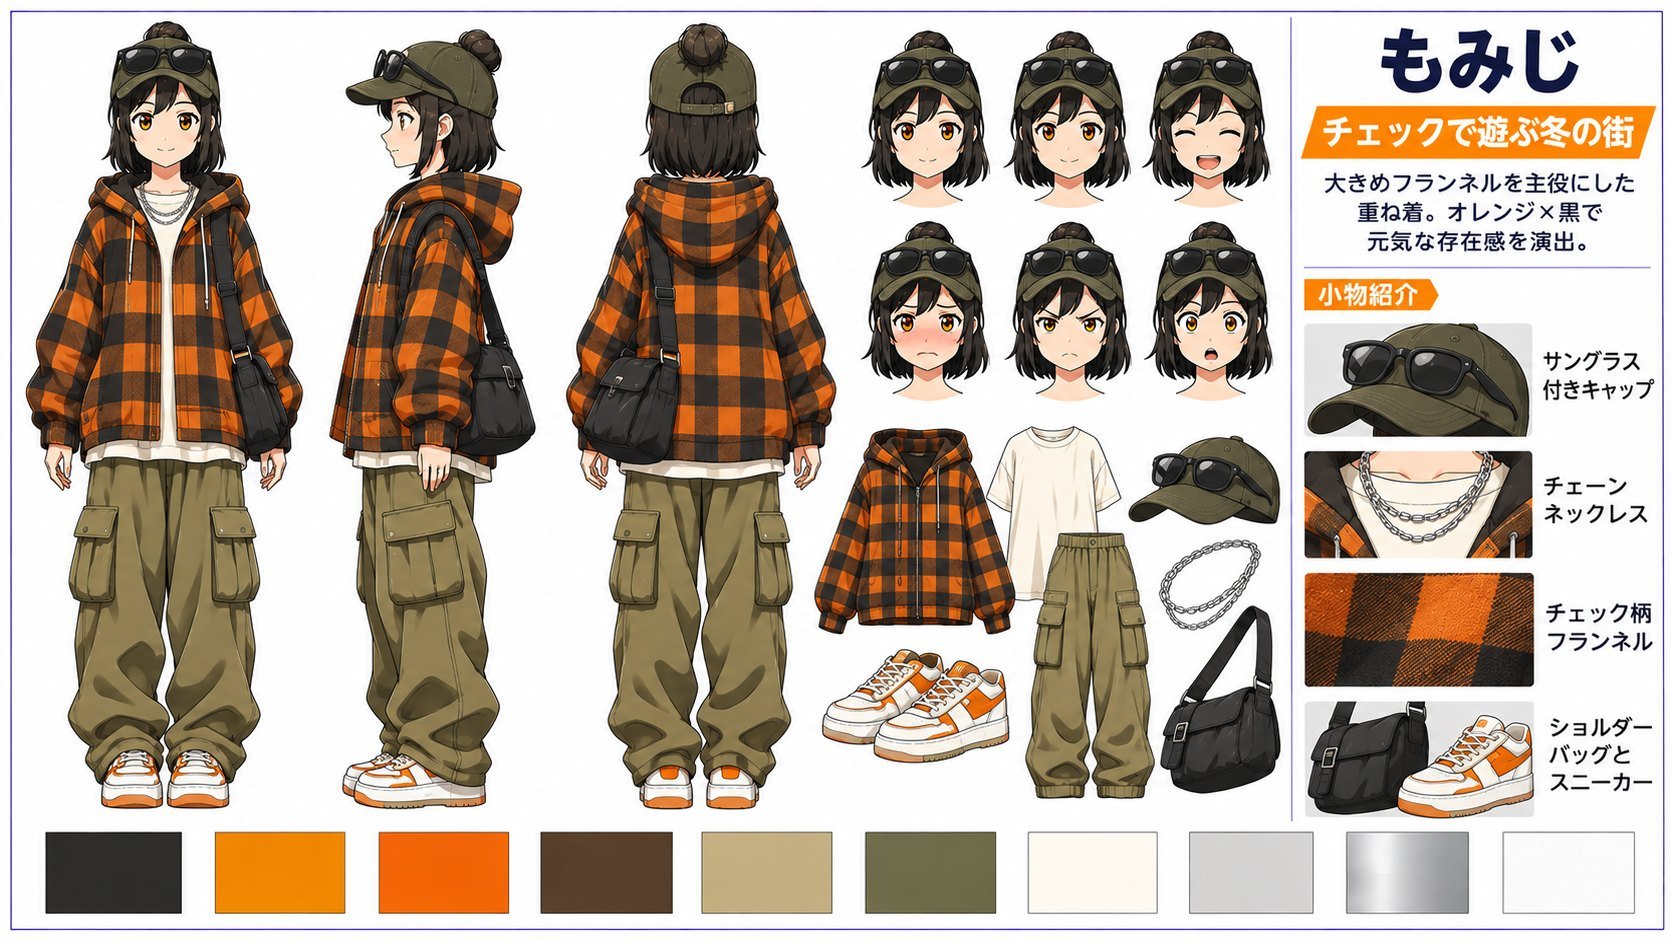
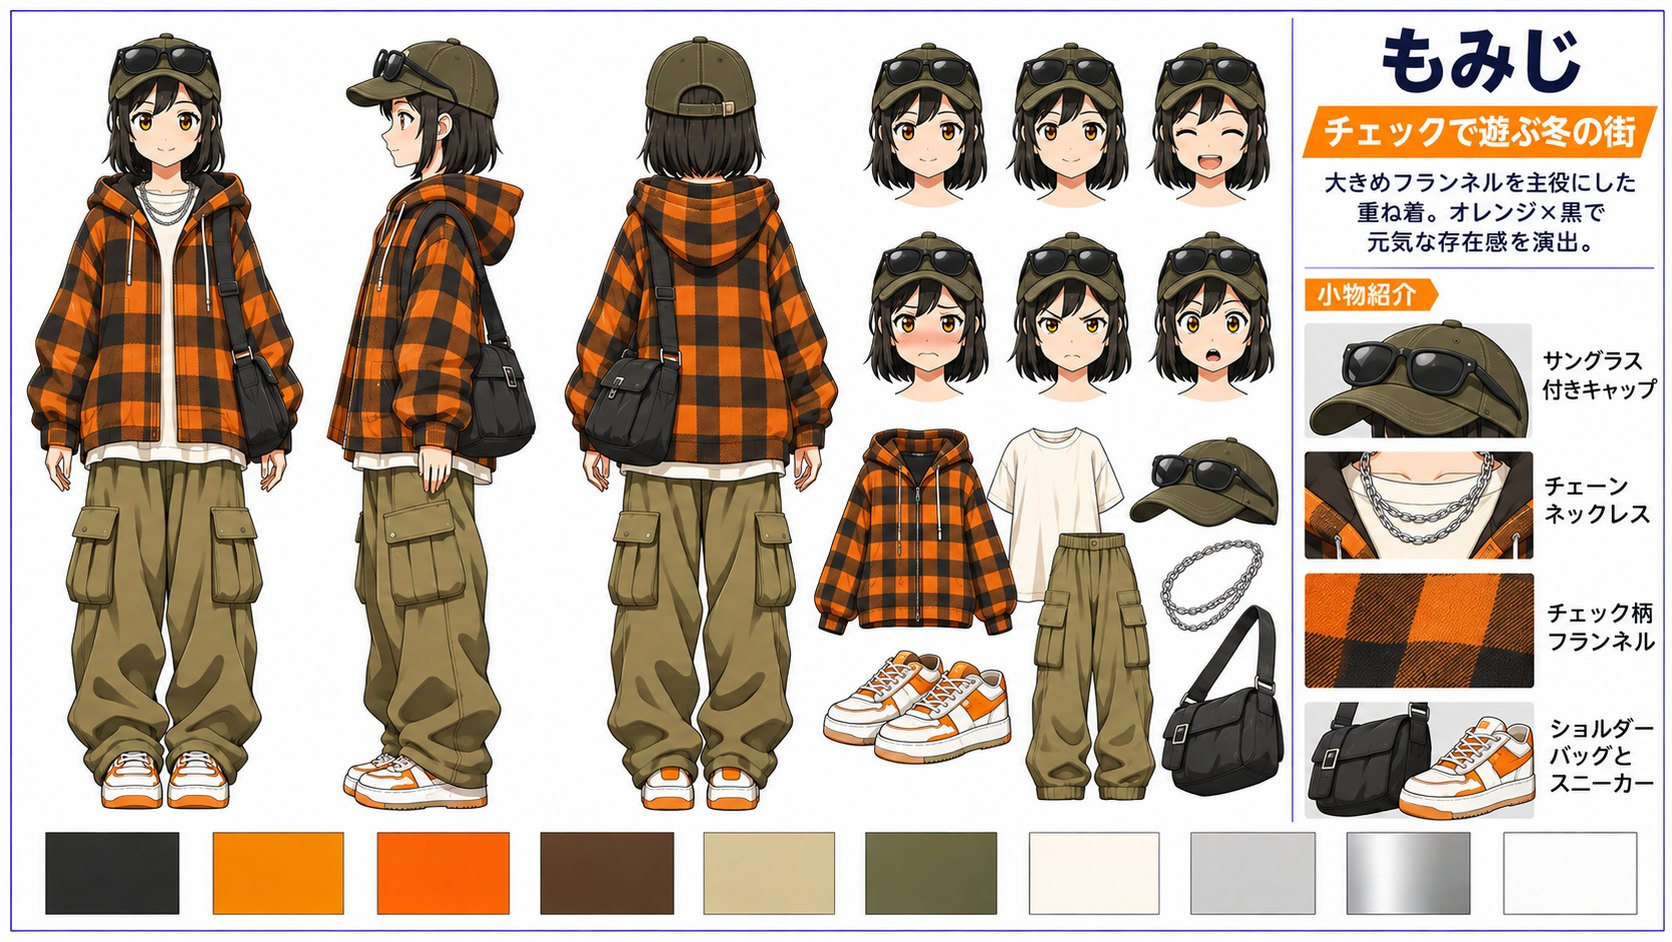
冬のクローゼット: もみじの帽子からお団子が出ていた4枚を直す
Claude-Session: https://claude.ai/code/session_01T7gT4qmE9osHHDbzMXBfQo

diff --git a/closet/index.html b/closet/index.html
@@ -119,7 +119,7 @@ function build(){
   list.forEach((c,i)=>{
     const b=document.createElement('button');b.type='button';b.className='card';b.style.setProperty('--c',COL[c.who]);
     b.setAttribute('aria-label',WHO[c.who]+'「'+c.title+'」');
-    b.innerHTML=`<img src="img/${c.id}.jpg" alt="" loading="${i<4?'eager':'lazy'}" draggable="false"><span class="refl" aria-hidden="true"><img src="img/${c.id}_s.jpg" alt="" loading="lazy"></span>`;
+    b.innerHTML=`<img src="img/${c.id}.jpg?v=3" alt="" loading="${i<4?'eager':'lazy'}" draggable="false"><span class="refl" aria-hidden="true"><img src="img/${c.id}_s.jpg?v=3" alt="" loading="lazy"></span>`;
     b.onclick=()=>{if(moved)return;if(i===front)zoom(c);else goTo(i)};
     ring.appendChild(b);cards.push(b);
   });
@@ -150,7 +150,7 @@ function step(dir){goTo((front+dir+cards.length)%cards.length)}
 document.getElementById('prev').onclick=e=>{e.stopPropagation();step(-1)};
 document.getElementById('next').onclick=e=>{e.stopPropagation();step(1)};
 const lb=document.getElementById('lb'),lbimg=document.getElementById('lbimg'),lbcap=document.getElementById('lbcap');
-function zoom(c){lbimg.src='img/'+c.id+'.jpg';lbimg.alt=WHO[c.who]+'の冬服「'+c.title+'」のキャラクターシート';lbcap.textContent=WHO[c.who]+'　'+c.title;lb.classList.add('on');paused=true;document.getElementById('lbx').focus()}
+function zoom(c){lbimg.src='img/'+c.id+'.jpg?v=3';lbimg.alt=WHO[c.who]+'の冬服「'+c.title+'」のキャラクターシート';lbcap.textContent=WHO[c.who]+'　'+c.title;lb.classList.add('on');paused=true;document.getElementById('lbx').focus()}
 let paused=false;
 function unzoom(){lb.classList.remove('on');paused=false;idleT=performance.now()}
 document.getElementById('lbx').onclick=unzoom;lb.onclick=e=>{if(e.target===lb)unzoom()};

diff --git a/index.html b/index.html
@@ -1488,7 +1488,7 @@ button.pamph{font:inherit;text-align:left;cursor:pointer;width:100%}
   <div class="tabs-scroll"><div class="tabs" role="tablist" aria-label="鹿煎寺高校の人たち" id="tabs"></div></div>
   <div class="chara" id="chara" role="tabpanel"></div>
   <a class="closet-link" href="closet/">
-    <span class="closet-shelf" aria-hidden="true"><img src="closet/img/rin_01_s.jpg" alt="" loading="lazy" style="--op:29%"><img src="closet/img/momiji_02_s.jpg" alt="" loading="lazy" style="--op:8%"><img src="closet/img/asu_02_s.jpg" alt="" loading="lazy" style="--op:34%"><img src="closet/img/momiji_04_s.jpg" alt="" loading="lazy" style="--op:8%"><img src="closet/img/rin_03_s.jpg" alt="" loading="lazy" style="--op:29%"></span>
+    <span class="closet-shelf" aria-hidden="true"><img src="closet/img/rin_01_s.jpg" alt="" loading="lazy" style="--op:29%"><img src="closet/img/momiji_02_s.jpg?v=3" alt="" loading="lazy" style="--op:8%"><img src="closet/img/asu_02_s.jpg" alt="" loading="lazy" style="--op:34%"><img src="closet/img/momiji_04_s.jpg?v=3" alt="" loading="lazy" style="--op:8%"><img src="closet/img/rin_03_s.jpg" alt="" loading="lazy" style="--op:29%"></span>
     <span class="closet-txt"><span class="tag">WINTER CLOSET ／ 冬の私服</span><b>冬のクローゼット</b><span class="s">あーすさん、もみじ、凛の冬の私服を15着。くるくる回してえらべます。</span><i>▶ 見に行く</i></span>
   </a>
 </div></section>
